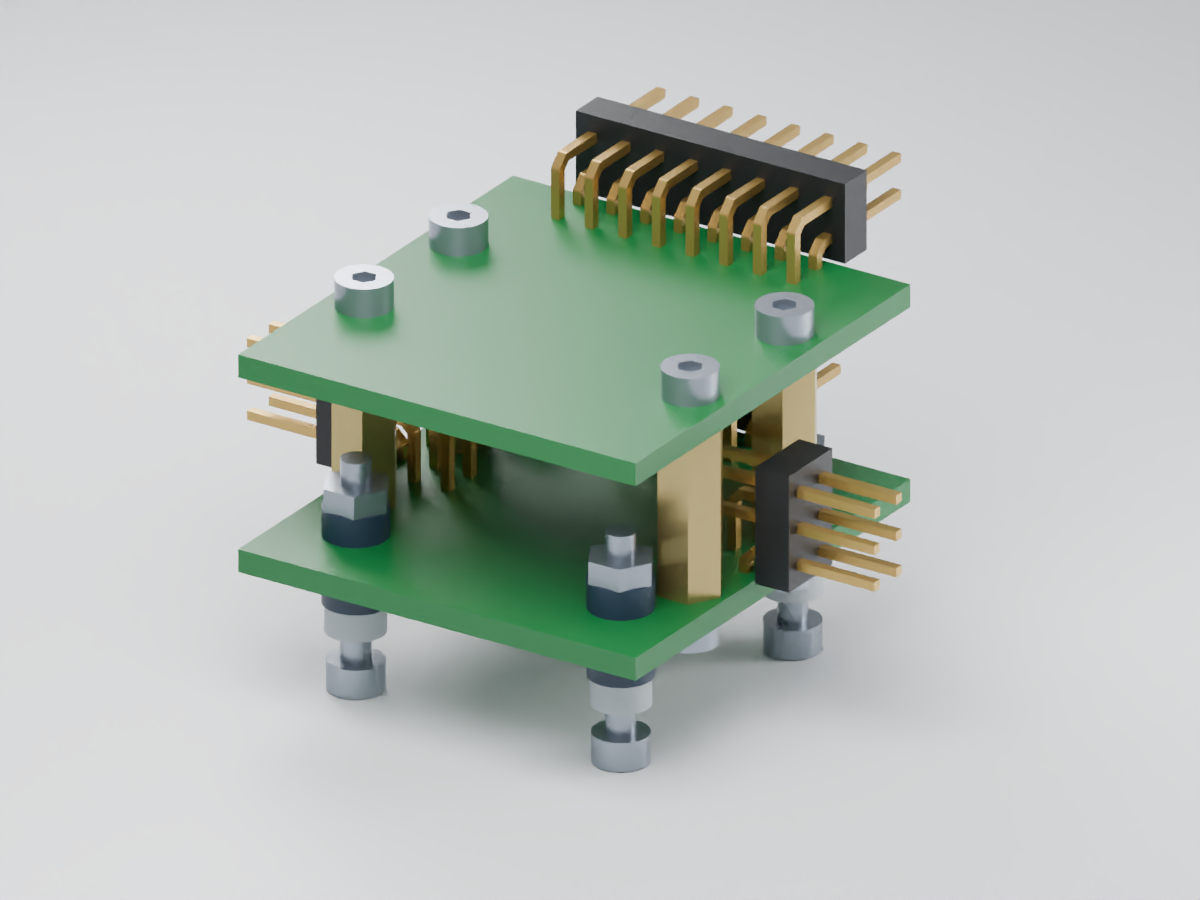
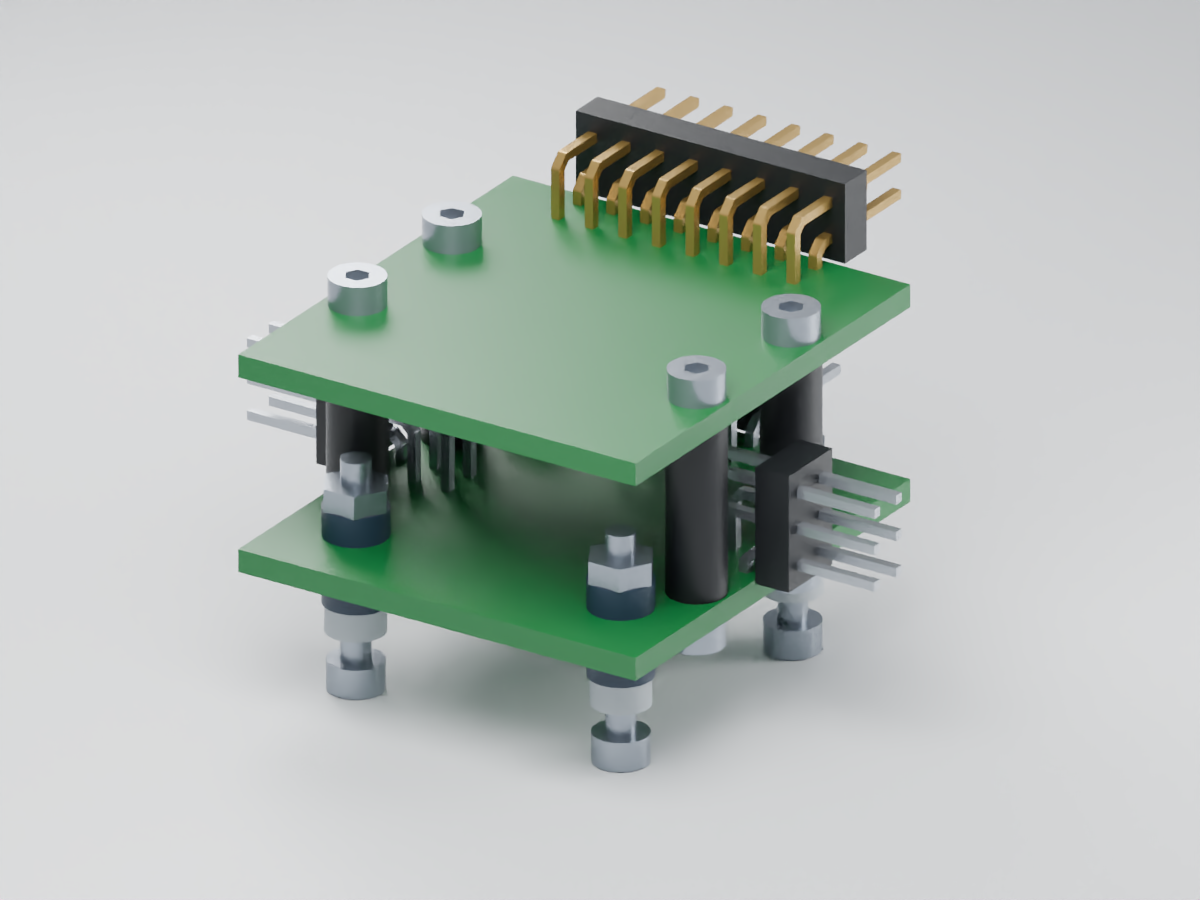
Show direct rubber mounting with round nylon board spacers

diff --git a/fc/notes.html b/fc/notes.html
@@ -1,1 +1,1 @@
-<!doctype html><html lang="en"><meta charset="utf-8"><meta name="viewport" content="width=device-width,initial-scale=1"><title>FC — Notes</title><style>body{max-width:1100px;margin:40px auto;padding:20px;font:16px/1.6 system-ui;color:#18232c}a{color:#176ba5}img{width:100%;height:auto}figure{margin:24px 0}figcaption{font-size:14px;color:#53606a}</style><nav><a href="./">Drone</a> · <a href="board.html">Board</a></nav><h1>FC</h1><p>One ongoing flight-controller design, shown on the supplied 4-inch HD Cargo frame.</p><p>The mounting is being changed to four rubber grommets directly in the bottom PCB, on 20 × 20 mm centres, with four small standoffs joining the boards. The prior carrier proposal has been archived on disk.</p><p>The drone view currently shows the previous board placement. The board view shows the newer electrical placement before mounting-hole changes. Neither is the completed direct-grommet assembly yet.</p><p>The upper UART header has 16 contacts: four UARTs, each with GND, 5 V, TX and RX. The shunt is next to the four power solder pads. The 100 mm JST service cable carries USB, boot/reset, SWD, buzzer control and power.</p><section id="mount"><h2>Direct grommet mounting proposal</h2><p>30 × 32 mm boards; four rubber grommets in the bottom PCB on20 × 20 mm centres; four independent12 mm M2 posts join the boards. No carrier. The proposed30 mm frame posts provide clearance under the HD Cargo roof.</p><figure><img src="mount-drone.png" alt="Mechanical proposal for direct rubber grommet mounting on the actual HD Cargo frame"><figcaption>Mechanical fit concept on the supplied drone frame. Blank PCBs are placeholders; electronic components and routing are omitted pending the real PCB relayout.</figcaption></figure><figure><img src="mount-board.png" alt="Blank board mounting concept with four bottom rubber grommets and four separate board-to-board standoffs"><figcaption>The upper UART header stays16-pin. The lower24 contacts are proposed as three smaller banks:12 motor contacts,6 I2C contacts,6 camera/video contacts. This avoids the mounting holes and preserves all signals.</figcaption></figure><p>The proposed side pins span47.36 mm and clear the supplied frame model. Exact grommet fit, compression, mating plugs, cable bends and connector tolerances remain to be qualified.</p></section><p>Engineering revisions and source evidence are kept in the local design archive. Current routing, exact grommets, mating tolerances and hardware qualification remain in progress.</p><p>Frame: ledroneclub, CC BY. Scale reference: US penny, diameter 19.05 mm. <a href="assets/PENNY-CREDITS.txt">Penny image credits</a> · <a href="assets/THREE-LICENSE.txt">Three.js license</a>.</p></html>
+<!doctype html><html lang="en"><meta charset="utf-8"><meta name="viewport" content="width=device-width,initial-scale=1"><title>FC — Notes</title><style>body{max-width:1100px;margin:40px auto;padding:20px;font:16px/1.6 system-ui;color:#18232c}a{color:#176ba5}img{width:100%;height:auto}figure{margin:24px 0}figcaption{font-size:14px;color:#53606a}</style><nav><a href="./">Drone</a> · <a href="board.html">Board</a></nav><h1>FC</h1><p>One ongoing flight-controller design, shown on the supplied 4-inch HD Cargo frame.</p><p>The mounting is being changed to four rubber grommets directly in the bottom PCB, on 20 × 20 mm centres, with four small standoffs joining the boards. The prior carrier proposal has been archived on disk.</p><p>The drone view currently shows the previous board placement. The board view shows the newer electrical placement before mounting-hole changes. Neither is the completed direct-grommet assembly yet.</p><p>The upper UART header has 16 contacts: four UARTs, each with GND, 5 V, TX and RX. The shunt is next to the four power solder pads. The 100 mm JST service cable carries USB, boot/reset, SWD, buzzer control and power.</p><section id="mount"><h2>Direct grommet mounting proposal</h2><p>30 × 32 mm boards; four rubber grommets in the bottom PCB on 20 × 20 mm centres; four independent 12 mm M2 round nylon posts join the boards. No carrier. The proposed 30 mm frame posts provide clearance under the HD Cargo roof.</p><figure><img src="mount-drone.png" alt="Mechanical proposal for direct rubber grommet mounting on the actual HD Cargo frame"><figcaption>Mechanical fit concept on the supplied drone frame. Blank PCBs are placeholders; electronic components and routing are omitted pending the real PCB relayout.</figcaption></figure><figure><img src="mount-board.png" alt="Blank board mounting concept with four bottom rubber grommets and four separate board-to-board standoffs"><figcaption>The upper UART header stays 16-pin. The lower 24 contacts are proposed as three smaller banks: 12 motor contacts, 6 I2C contacts, 6 camera/video contacts. This avoids the mounting holes and preserves all signals.</figcaption></figure><figure><img src="mount-side.png" alt="Side view of the direct grommet mounting concept"><figcaption>Four round nylon standoffs join the boards on 25.6 × 11 mm centres. The separate bottom grommets isolate the whole stack from the frame.</figcaption></figure><p>The proposed side pins span 47.36 mm and clear the supplied frame model. Exact grommet fit, compression, mating plugs, cable bends and connector tolerances remain to be qualified.</p></section><p>Engineering revisions and source evidence are kept in the local design archive. Current routing, exact grommets, mating tolerances and hardware qualification remain in progress.</p><p>Frame: ledroneclub, CC BY. Scale reference: US penny, diameter 19.05 mm. <a href="assets/PENNY-CREDITS.txt">Penny image credits</a> · <a href="assets/THREE-LICENSE.txt">Three.js license</a>.</p></html>
